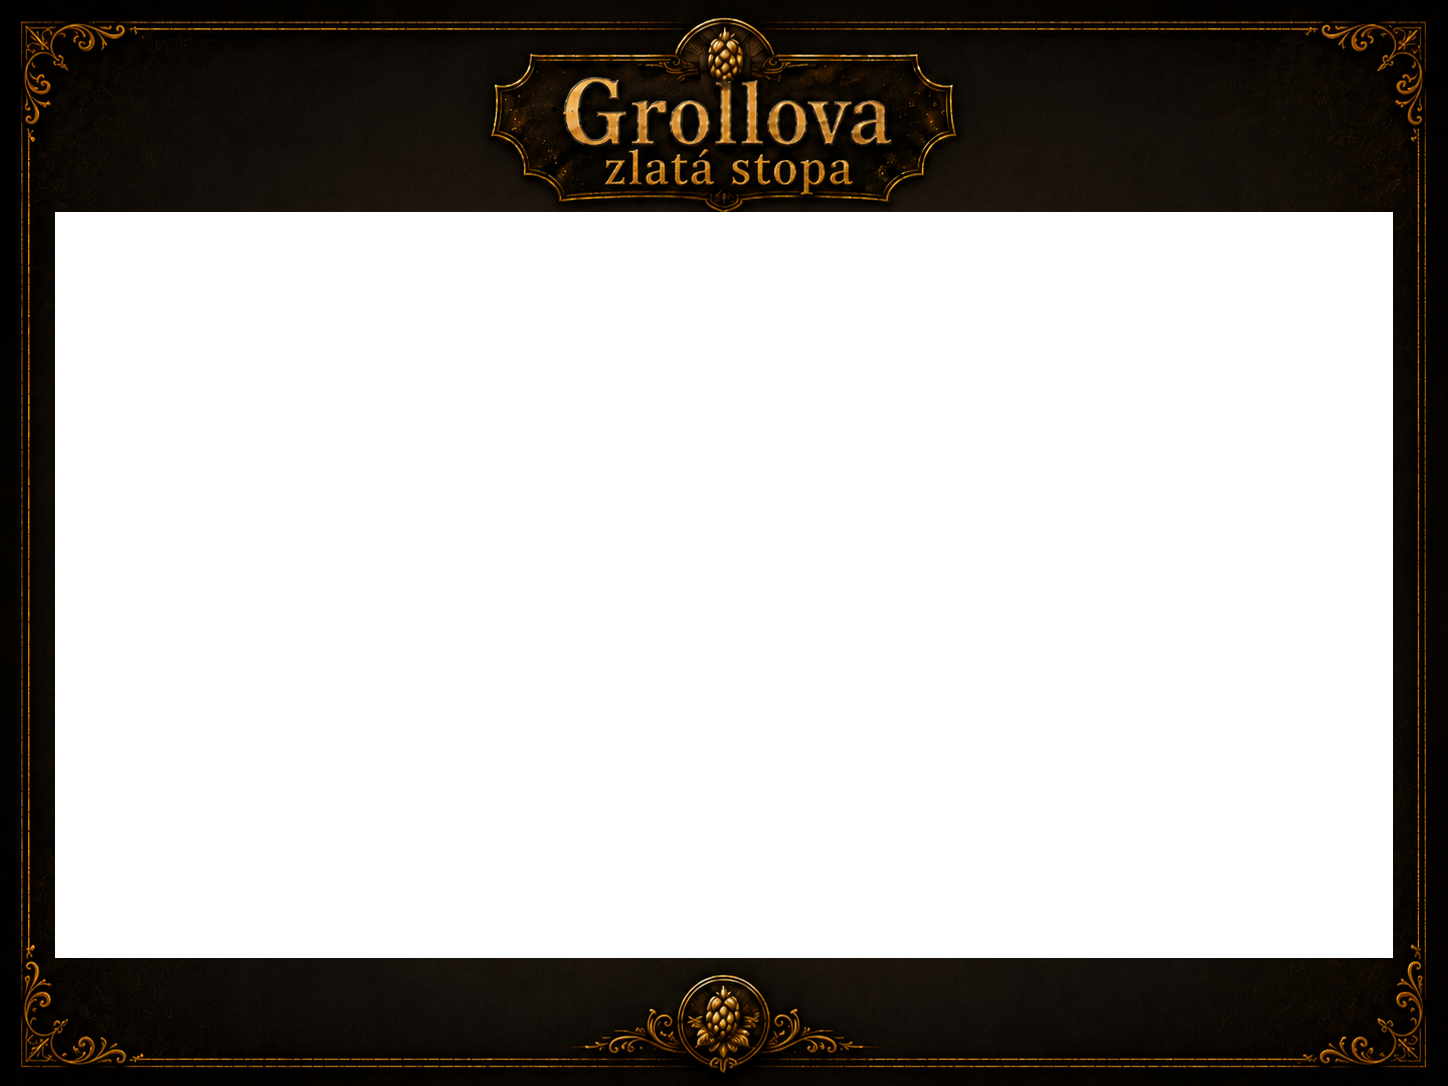
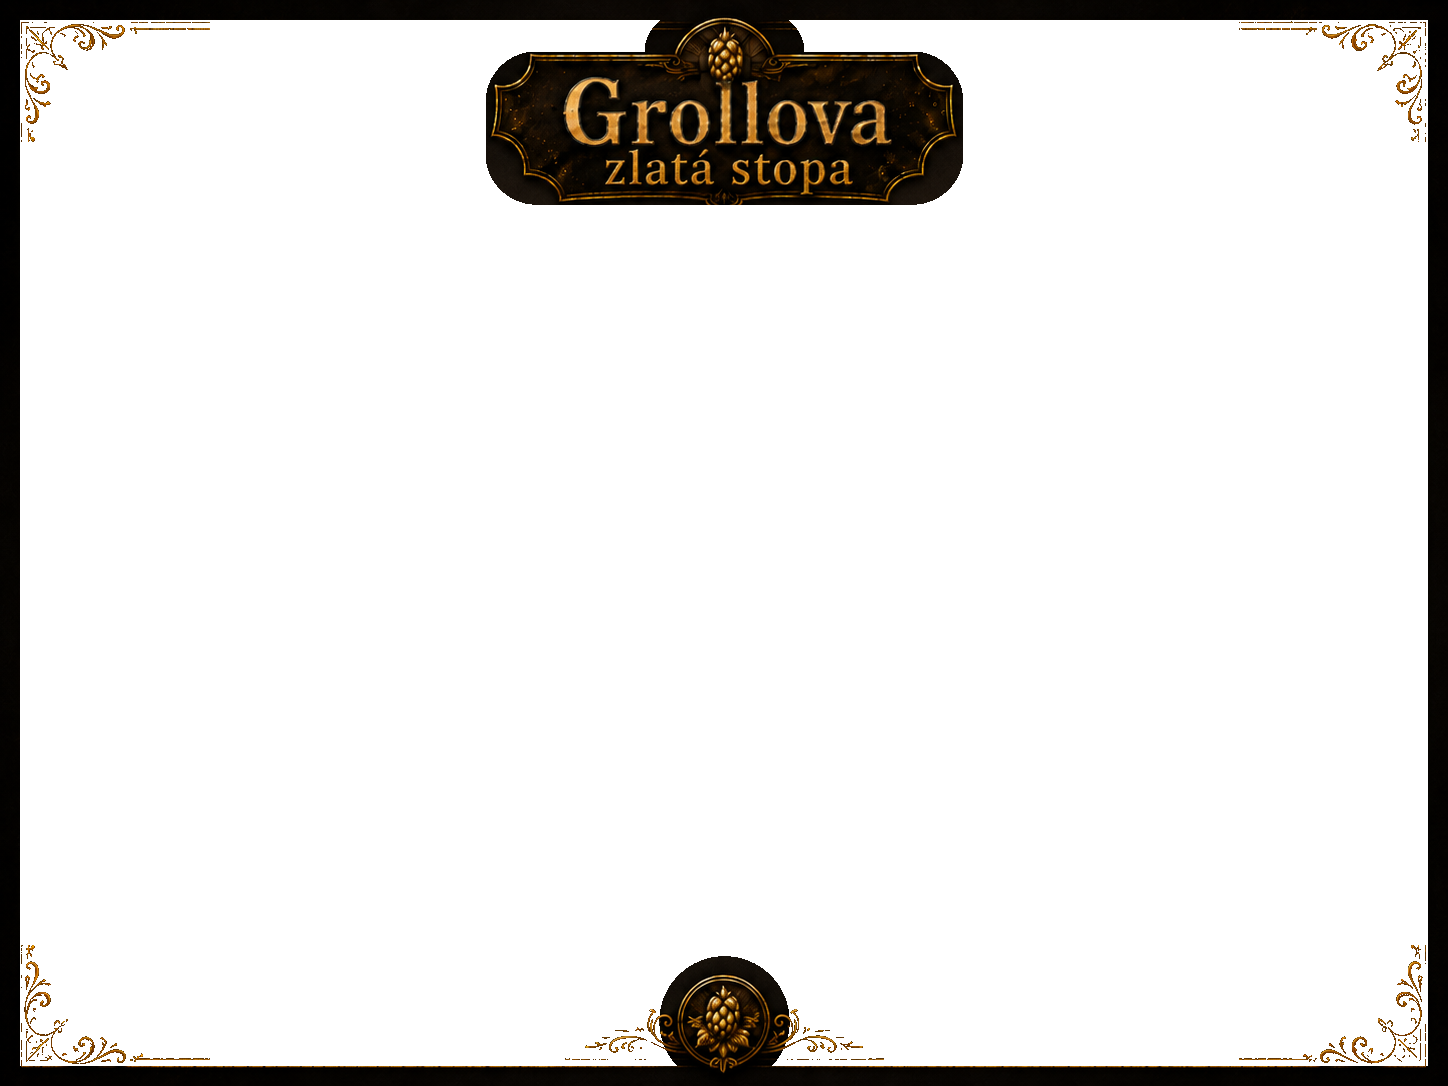
Zvetsit prostor ve selfie ramecku

Changed region(s): [[0.0, 0.0, 0.9945, 1.0]]

diff --git a/index.html b/index.html
@@ -255,13 +255,13 @@
   }
   </script>
   <link rel="manifest" href="manifest.webmanifest" />
-  <link rel="stylesheet" href="style.css?v=196" />
+  <link rel="stylesheet" href="style.css?v=197" />
 </head>
 <body>
   <div id="app" class="app-shell"></div>
   <div id="toast" class="toast" aria-live="polite"></div>
   <script src="game-data.js?v=194"></script>
-  <script src="app.js?v=200"></script>
+  <script src="app.js?v=201"></script>
 </body>
 </html>
 

diff --git a/sw.js b/sw.js
@@ -1,5 +1,5 @@
-const CACHE='grollova-cesta-v200-groll-selfie-frame';
-const STATIC=['./','./index.html','./404.html','./style.css','./style.css?v=196','./app.js','./app.js?v=200','./game-data.js','./game-data.js?v=194','./manifest.webmanifest','./seznam-wmt-iNTy4RkzYHeUNpmhy6t8nriA2EAK4Cqz.txt','./assets/images/certifikat-bez-titulu.jpg','./assets/images/certifikat-kratka-verze.png','./assets/images/groll_uvod.jpg','./assets/images/Groll_logo_na_sirku.jpg','./assets/images/Groll_logo_na_vysku.jpg','./assets/images/groll_selfie_logo_badge.png','./assets/images/groll_selfie_frame_overlay.png','./assets/images/06_velka_synagoga_reseni_trojuhelniky.png','./assets/images/web_darkovy_voucher_fade.png','./assets/images/web_klice.jpg','./assets/images/groll_selfie_overlay.png','./assets/images/selfie_frame_landscape.png','./assets/images/selfie_frame_team_wide.png'];
+const CACHE='grollova-cesta-v201-groll-selfie-frame-cutout';
+const STATIC=['./','./index.html','./404.html','./style.css','./style.css?v=197','./app.js','./app.js?v=201','./game-data.js','./game-data.js?v=194','./manifest.webmanifest','./seznam-wmt-iNTy4RkzYHeUNpmhy6t8nriA2EAK4Cqz.txt','./assets/images/certifikat-bez-titulu.jpg','./assets/images/certifikat-kratka-verze.png','./assets/images/groll_uvod.jpg','./assets/images/Groll_logo_na_sirku.jpg','./assets/images/Groll_logo_na_vysku.jpg','./assets/images/groll_selfie_logo_badge.png','./assets/images/groll_selfie_frame_overlay.png','./assets/images/06_velka_synagoga_reseni_trojuhelniky.png','./assets/images/web_darkovy_voucher_fade.png','./assets/images/web_klice.jpg','./assets/images/groll_selfie_overlay.png','./assets/images/selfie_frame_landscape.png','./assets/images/selfie_frame_team_wide.png'];
 self.addEventListener('install',e=>{e.waitUntil(caches.open(CACHE).then(c=>c.addAll(STATIC)).then(()=>self.skipWaiting()))});
 self.addEventListener('activate',e=>{e.waitUntil(caches.keys().then(keys=>Promise.all(keys.filter(k=>k!==CACHE).map(k=>caches.delete(k)))).then(()=>self.clients.claim()))});
 self.addEventListener('fetch',e=>{